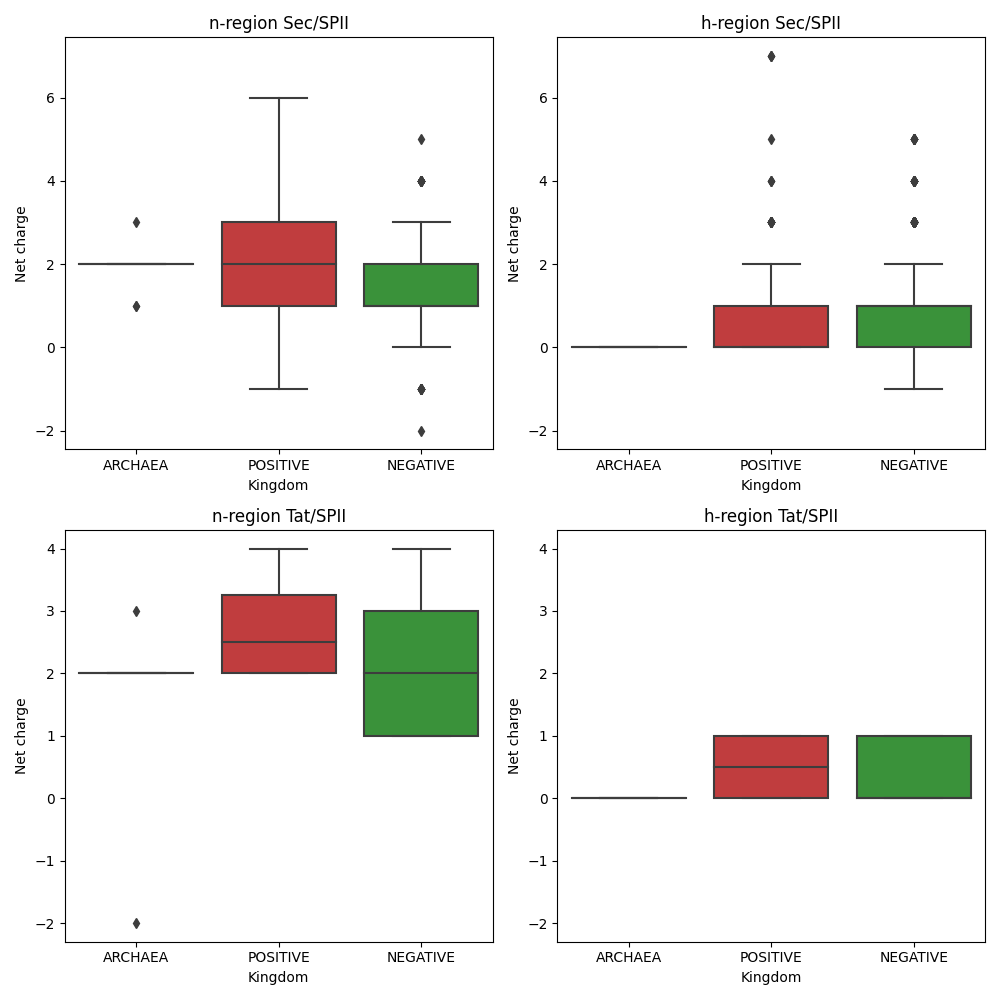
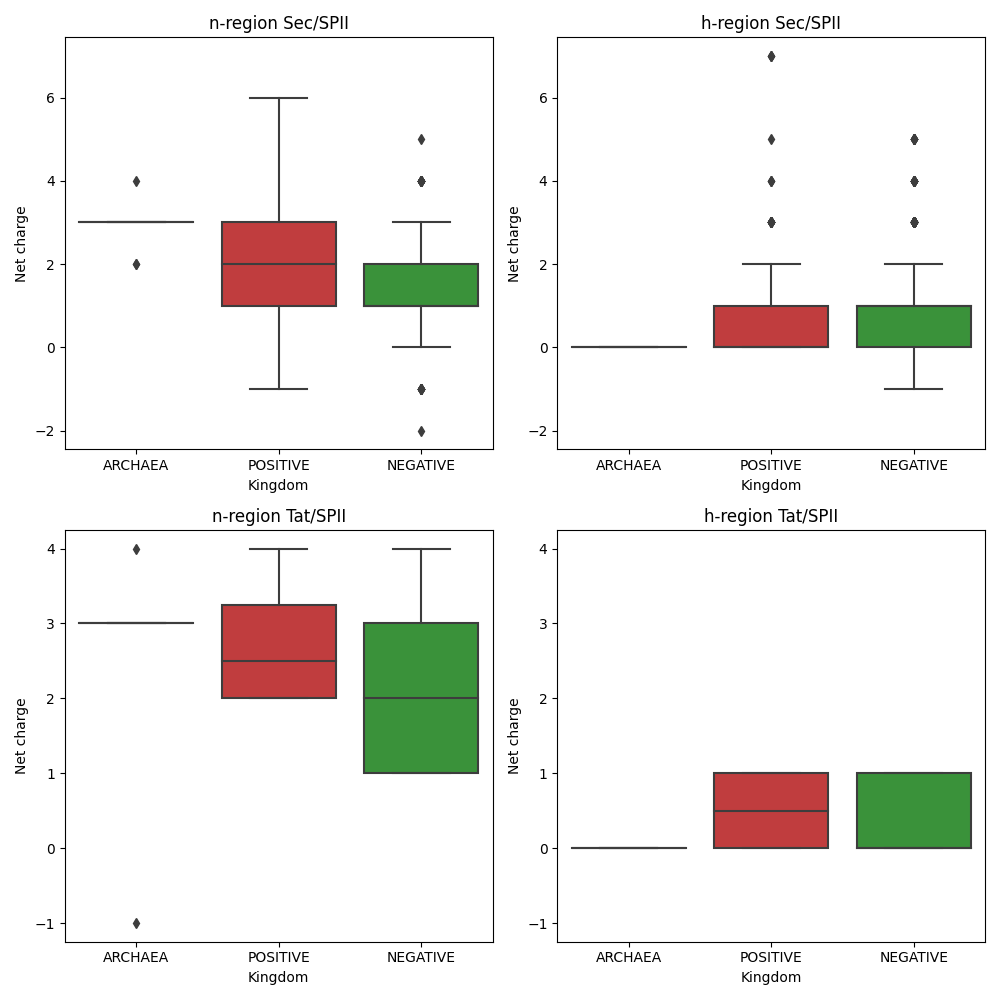
fixed archaea methionine charge

diff --git a/sp_prediction_experiments/signalp_6_evaluation_scripts/make_figures.py b/sp_prediction_experiments/signalp_6_evaluation_scripts/make_figures.py
@@ -397,10 +397,12 @@ def main():
 
 
         charges_n = np.apply_along_axis(compute_net_charge, 1, aas_n)
-        #NOTE need to fix n charge for eukarya - M is not formylated
+        #NOTE need to fix n charge for eukarya and archaea - M is not formylated
         euk_idx = df['Kingdom'].values == 'EUKARYA'
+        arc_idx = df['Kingdom'].values == 'ARCHAEA'
         charges_n[euk_idx] = charges_n[euk_idx] + 1
-    
+        charges_n[arc_idx] = charges_n[arc_idx] + 1
+
         charges_h = np.apply_along_axis(compute_net_charge, 1, aas_h) 
         charges_c = np.apply_along_axis(compute_net_charge, 1, aas_c) 
 
